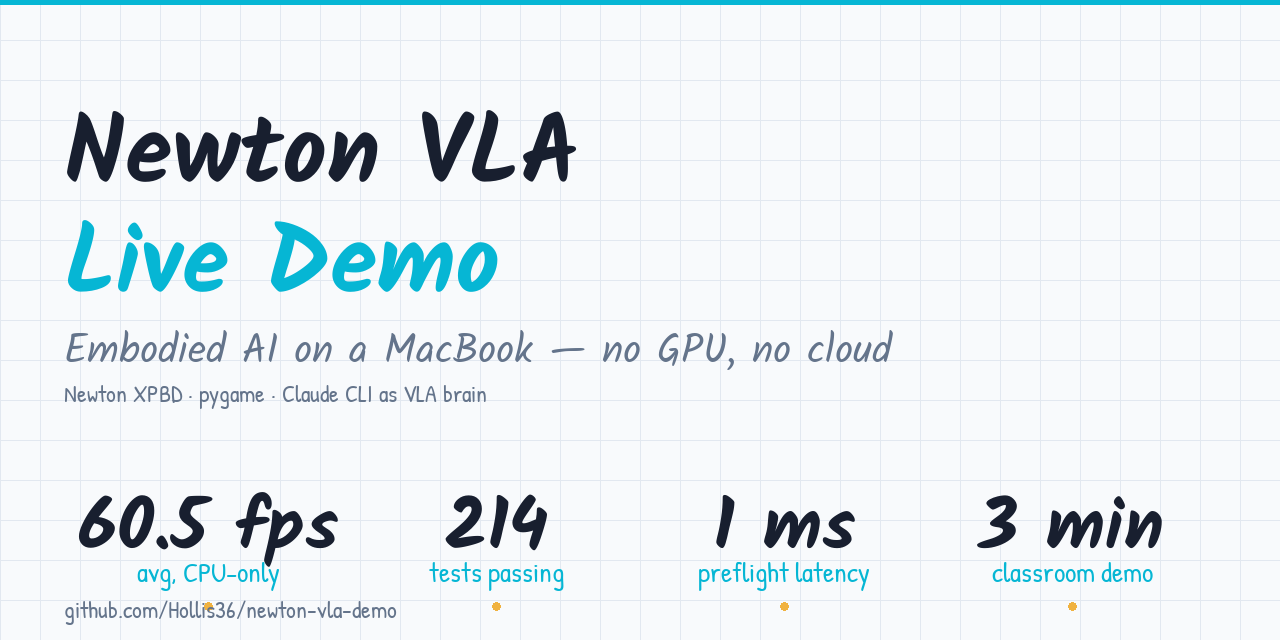
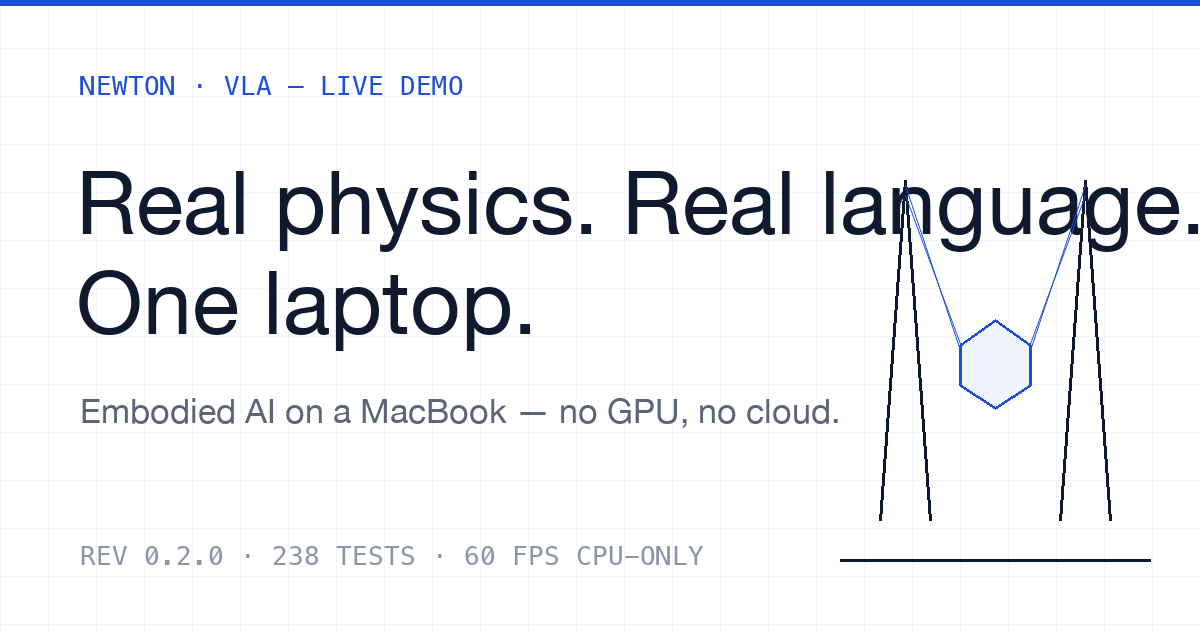
docs(site): experiment figures + blueprint-style social card

diff --git a/docs/assets/make_social_card.py b/docs/assets/make_social_card.py
@@ -1,0 +1,37 @@
+"""Renders the OG/Twitter card (1200x630) in the page's blueprint style.
+Run:  uv run --extra demo python docs/assets/make_social_card.py"""
+import os
+
+os.environ.setdefault("SDL_VIDEODRIVER", "dummy")
+import pygame
+
+W, H, BLUE, INK, GRID = 1200, 630, (29, 78, 216), (15, 26, 46), (29, 78, 216)
+pygame.init()
+s = pygame.Surface((W, H))
+s.fill((255, 255, 255))
+for x in range(0, W, 48):
+    pygame.draw.line(s, (242, 245, 252), (x, 0), (x, H))
+for y in range(0, H, 48):
+    pygame.draw.line(s, (242, 245, 252), (0, y), (W, y))
+pygame.draw.rect(s, BLUE, (0, 0, W, 6))
+# wordmark + title
+mono = pygame.font.SysFont("menlo", 26)
+big = pygame.font.SysFont("helveticaneue", 88)
+sub = pygame.font.SysFont("helveticaneue", 34)
+s.blit(mono.render("NEWTON · VLA — LIVE DEMO", True, BLUE), (80, 70))
+s.blit(big.render("Real physics. Real language.", True, INK), (76, 150))
+s.blit(big.render("One laptop.", True, INK), (76, 250))
+s.blit(sub.render("Embodied AI on a MacBook — no GPU, no cloud.", True, (90, 102, 120)), (80, 390))
+# cable-robot glyph (right side)
+pygame.draw.lines(s, INK, False, [(880, 520), (905, 180), (930, 520)], 3)
+pygame.draw.lines(s, INK, False, [(1060, 520), (1085, 180), (1110, 520)], 3)
+for a, b in [((905, 185), (960, 350)), ((905, 195), (968, 365)),
+             ((1085, 185), (1030, 350)), ((1085, 195), (1022, 365))]:
+    pygame.draw.aaline(s, BLUE, a, b)
+pts = [(960, 345), (995, 320), (1030, 345), (1030, 385), (995, 408), (960, 385)]
+pygame.draw.polygon(s, (240, 244, 253), pts)
+pygame.draw.polygon(s, BLUE, pts, 3)
+pygame.draw.line(s, INK, (840, 560), (1150, 560), 3)
+s.blit(mono.render("REV 0.2.0 · 238 TESTS · 60 FPS CPU-ONLY", True, (138, 148, 166)), (80, 540))
+pygame.image.save(s, "docs/figures/social_preview.png")
+print("wrote docs/figures/social_preview.png")